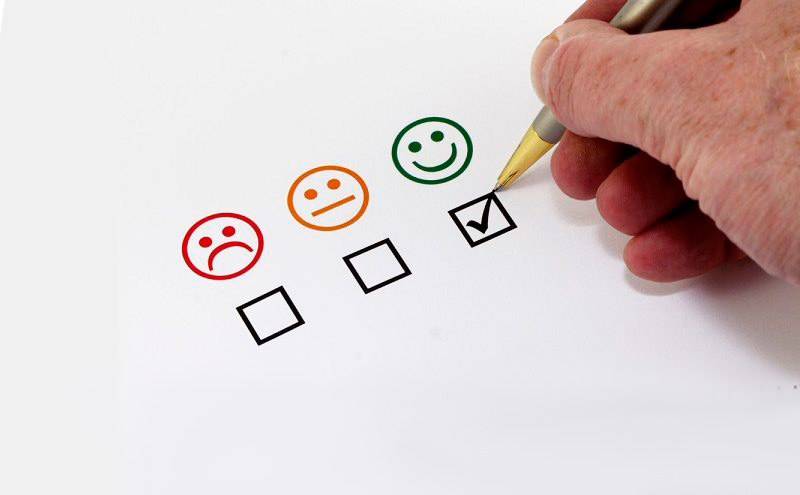
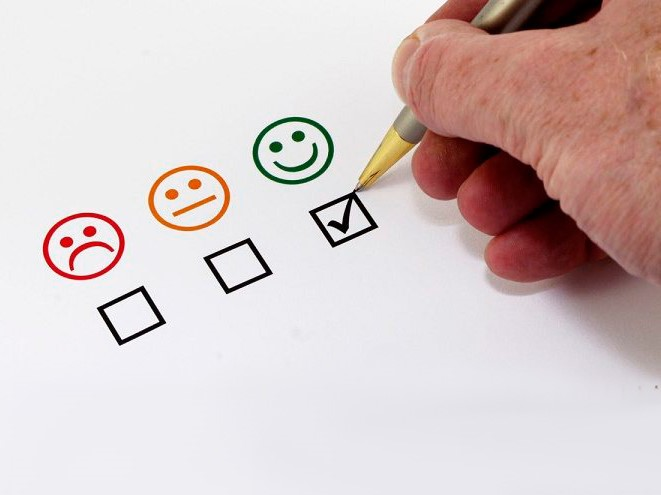
imagenes

diff --git a/src/app/pages/home/home.component.html b/src/app/pages/home/home.component.html
@@ -24,7 +24,7 @@
           alt="Alerta de seguridad"
         />
         <div class="card-body">
-    <h5 class="card-title">Alertas de seguridad</h5>
+    <h5 class="card-title text-center">Alertas de seguridad</h5>
         </div>
       </div>
     </div>
@@ -36,7 +36,7 @@
           alt="Equipos de seguridad"
         />
         <div class="card-body">
-          <h5 class="card-title">Control de seguridad</h5>
+          <h5 class="card-title text-center">Control de seguridad</h5>
         </div>
       </div>
     </div>
@@ -48,19 +48,19 @@
           alt="Capacitaciones de seguridad"
         />
         <div class="card-body">
-          <h5 class="card-title">Capacitaciones</h5>
+          <h5 class="card-title text-center">Capacitaciones</h5>
         </div>
       </div>
     </div>
     <div class="col">
       <div class="card" role="button" routerLink="/">
         <img
-          src="../../assets/images/home/Cuestionarios.webp"
+          src="../../assets/images/home/Cuestionarios.jpg"
           class="card-img-top"
           alt="Cuestionarios"
         />
         <div class="card-body">
-          <h5 class="card-title">Cuestionarios</h5>
+          <h5 class="card-title text-center">Cuestionarios</h5>
         </div>
       </div>
     </div>

diff --git a/src/app/pages/pages.module.ts b/src/app/pages/pages.module.ts
@@ -6,6 +6,7 @@ import { HomeComponent } from './home/home.component';
 import { SecurityAlertsComponent } from './security-alerts/security-alerts.component';
 import { InitPageComponent } from './init-page/init-page.component';
 import { SecurityAlertManagementComponent } from './security-alert-management/security-alert-management.component';
+import { RegisterAlertComponent } from './register-alert/register-alert.component';
 
 
 
@@ -14,7 +15,8 @@ import { SecurityAlertManagementComponent } from './security-alert-management/se
     HomeComponent,
     SecurityAlertsComponent,
     InitPageComponent,
-    SecurityAlertManagementComponent
+    SecurityAlertManagementComponent,
+    RegisterAlertComponent
   ],
   imports: [
     CommonModule,
@@ -22,8 +24,9 @@ import { SecurityAlertManagementComponent } from './security-alert-management/se
     PagesRoutingModule
   ],
   exports: [
-    PagesRoutingModule,
     HomeComponent,
+    PagesRoutingModule,
+    RegisterAlertComponent,
     SecurityAlertsComponent
   ]
 })

diff --git a/src/app/pages/pages-routing.module.ts b/src/app/pages/pages-routing.module.ts
@@ -2,6 +2,7 @@ import { NgModule } from '@angular/core';
 import { RouterModule, Routes } from '@angular/router';
 import { HomeComponent } from './home/home.component';
 import { InitPageComponent } from './init-page/init-page.component';
+import { RegisterAlertComponent } from './register-alert/register-alert.component';
 import { SecurityAlertManagementComponent } from './security-alert-management/security-alert-management.component';
 import { SecurityAlertsComponent } from './security-alerts/security-alerts.component';
 
@@ -12,6 +13,7 @@ const routes: Routes = [
     children: [
       { path: 'home', component: HomeComponent },
       { path: 'security-alerts', component: SecurityAlertsComponent },
+      { path: 'security-alerts/register-alert', component: RegisterAlertComponent },
       { path: 'security-alerts/security-alert-management', component: SecurityAlertManagementComponent },
       { path: '**', component: HomeComponent },
     ],

diff --git a/src/app/components/submenu-card/submenu-card.component.html b/src/app/components/submenu-card/submenu-card.component.html
@@ -1,15 +1,14 @@
-<div class="card m-4 p-4 card--background" role="button">
+<div class="card m-4 p-3 card--background" role="button">
   <div class="row d-flex justify-content-center align-items-center">
-    <div class="col col-sm-8 col-md-8">
-      <h5 class="card-title sub-title">{{ subtitle }}</h5>
+    <div class="col-8">
+      <h4 class="card-title sub-title">{{ subtitle }}</h4>
     </div>
     <div
-      class="col col-sm-4 col-md-4 d-flex justify-content-center align-items-center"
+      class="col-4 d-flex justify-content-center align-items-center"
     >
       <img
         src="{{ imgDirectory }}"
-        style="height: 75px; width: 75px; height: auto"
-        alt="Gestión de alertas de seguridad"
+        alt="Imagen"
       />
     </div>
   </div>

diff --git a/src/app/pages/register-alert/register-alert.component.ts b/src/app/pages/register-alert/register-alert.component.ts
@@ -1,0 +1,15 @@
+import { Component, OnInit } from '@angular/core';
+
+@Component({
+  selector: 'app-register-alert',
+  templateUrl: './register-alert.component.html',
+  styleUrls: ['./register-alert.component.css']
+})
+export class RegisterAlertComponent implements OnInit {
+
+  constructor() { }
+
+  ngOnInit(): void {
+  }
+
+}

diff --git a/src/app/pages/register-alert/register-alert.component.html b/src/app/pages/register-alert/register-alert.component.html
@@ -1,0 +1,6 @@
+<div class="card" style="width: 18rem">
+  <div class="card-body card-info">
+    <button class="edit-button"> <span class="bi bi-pencil-fill" style="color: white;"></span> </button>
+    <button class="trash-button"> <span class="bi bi-trash-fill" style="color: white;"></span> </button>
+  </div>
+</div>

diff --git a/src/app/pages/security-alerts/security-alerts.component.html b/src/app/pages/security-alerts/security-alerts.component.html
@@ -8,6 +8,7 @@
   [subtitle]="'Seguimiento de riesgos de seguridad'"
 ></app-submenu-card>
 <app-submenu-card
+  routerLink="register-alert"
   [imgDirectory]="'../../../assets/images/Alertas de seguridad/Registro de alerta.png'"
   [subtitle]="'Registro de alerta'"
 ></app-submenu-card>

diff --git a/src/app/components/submenu-card/submenu-card.component.css b/src/app/components/submenu-card/submenu-card.component.css
@@ -5,3 +5,8 @@
 .sub-title {
   color: white;
 }
+
+img {
+  width: 100px;
+  border-radius: 10px;
+}
